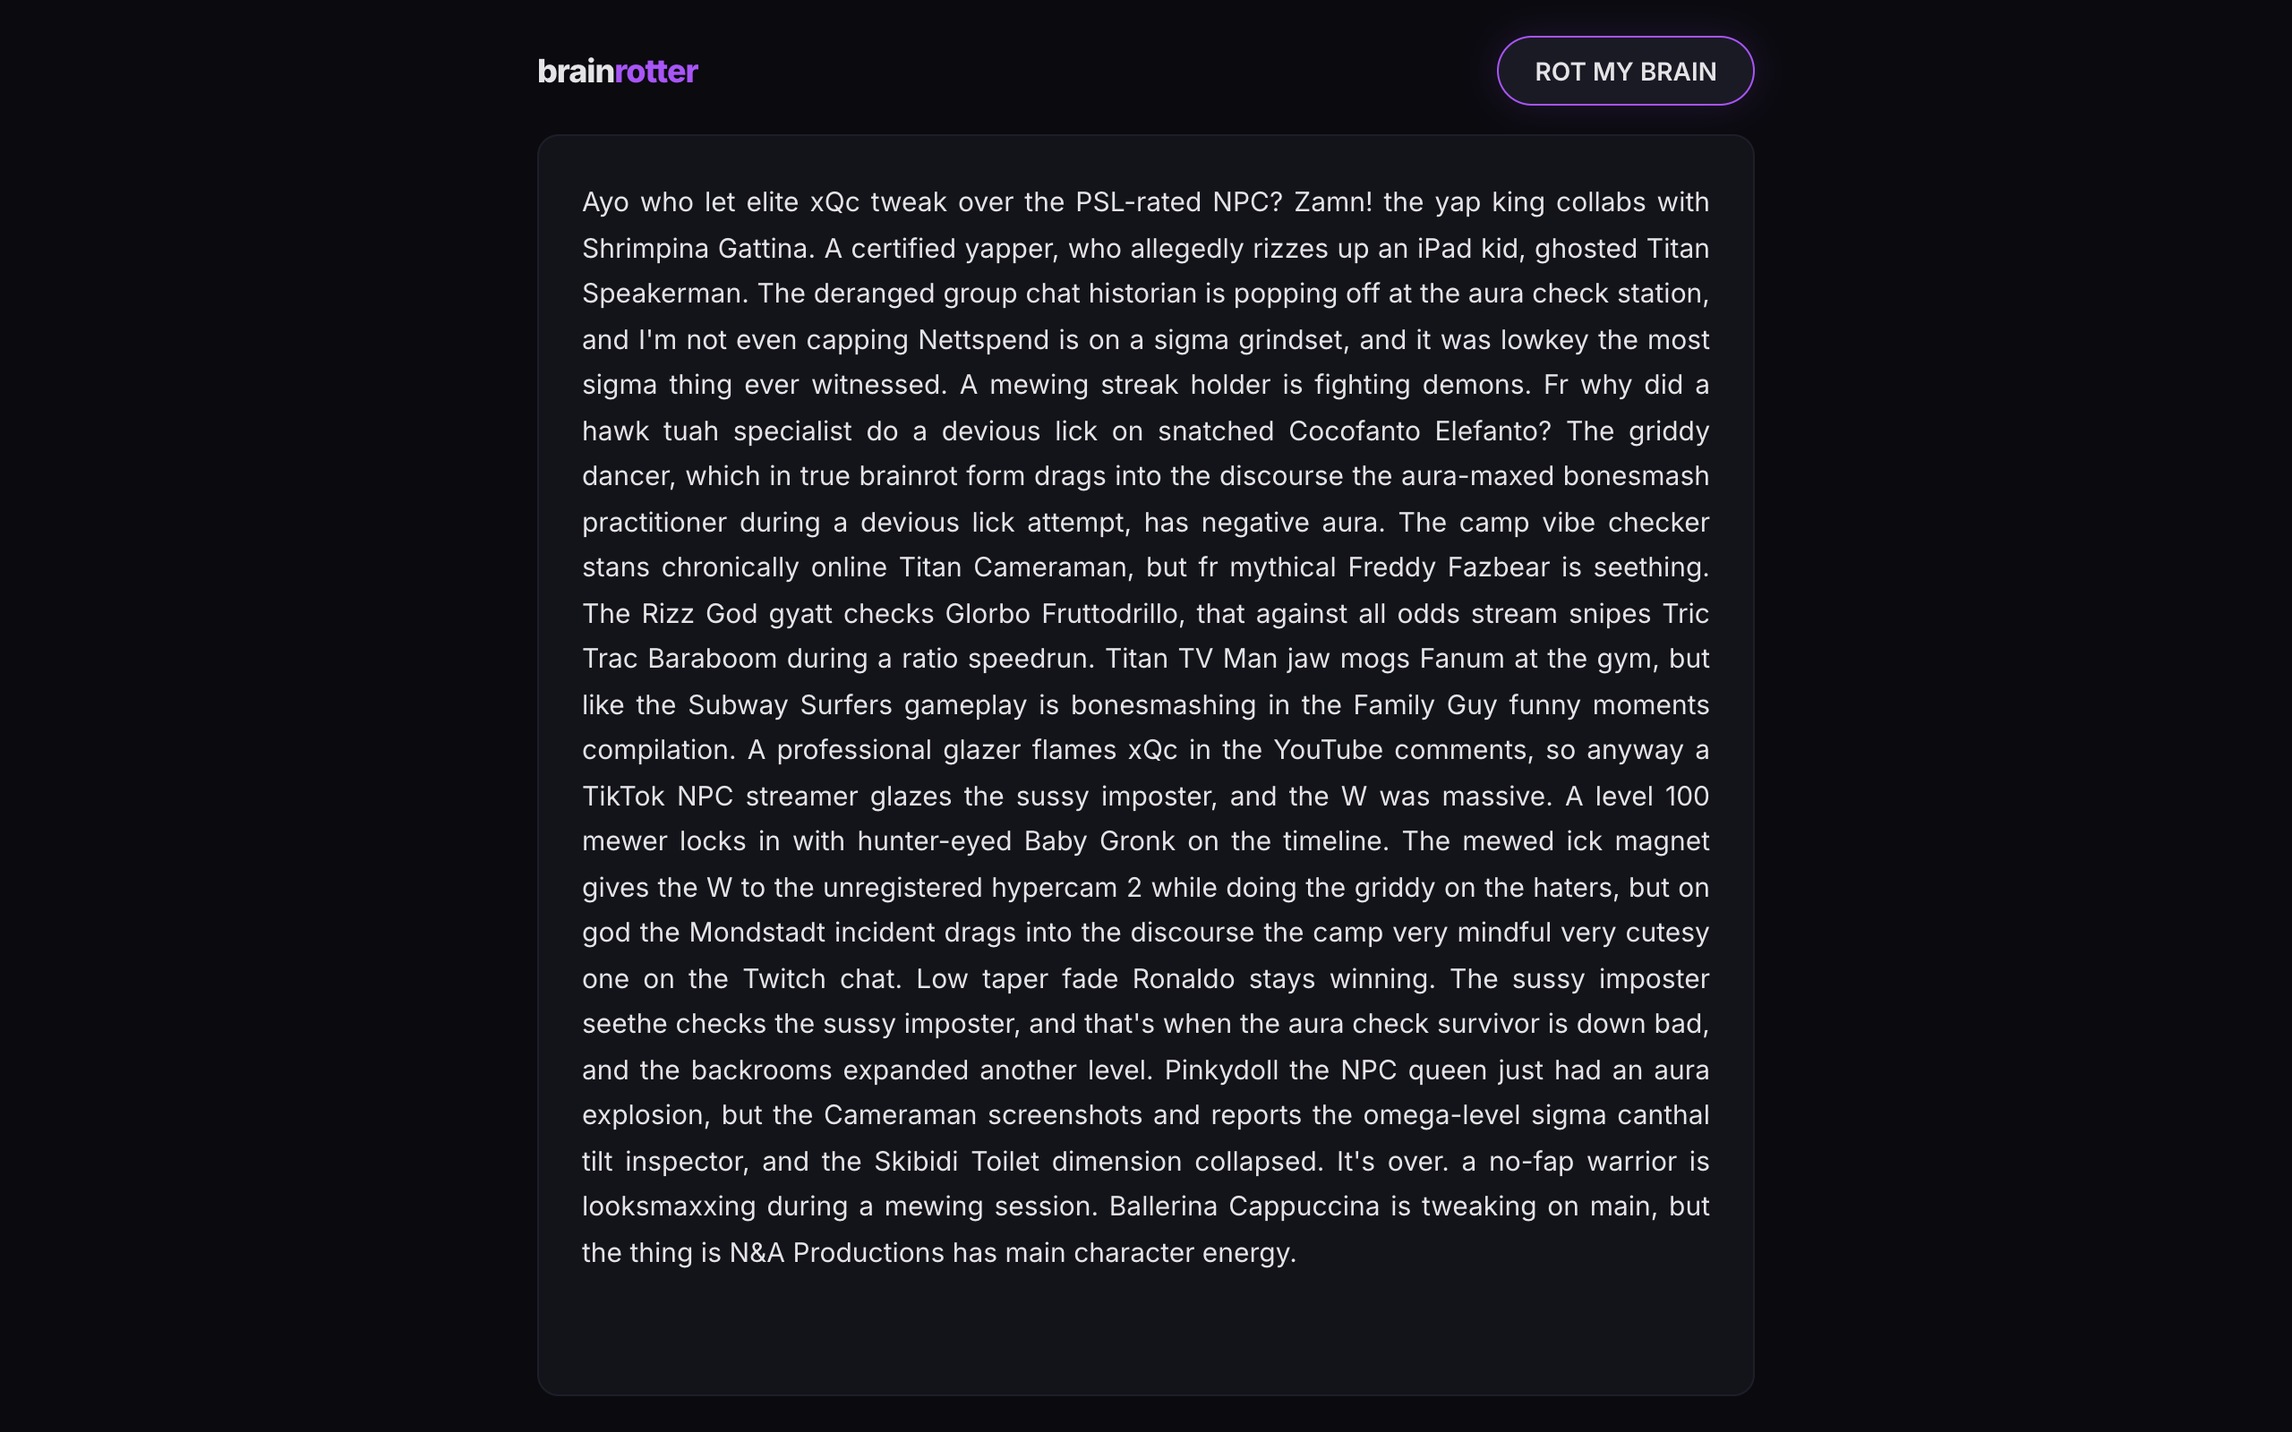
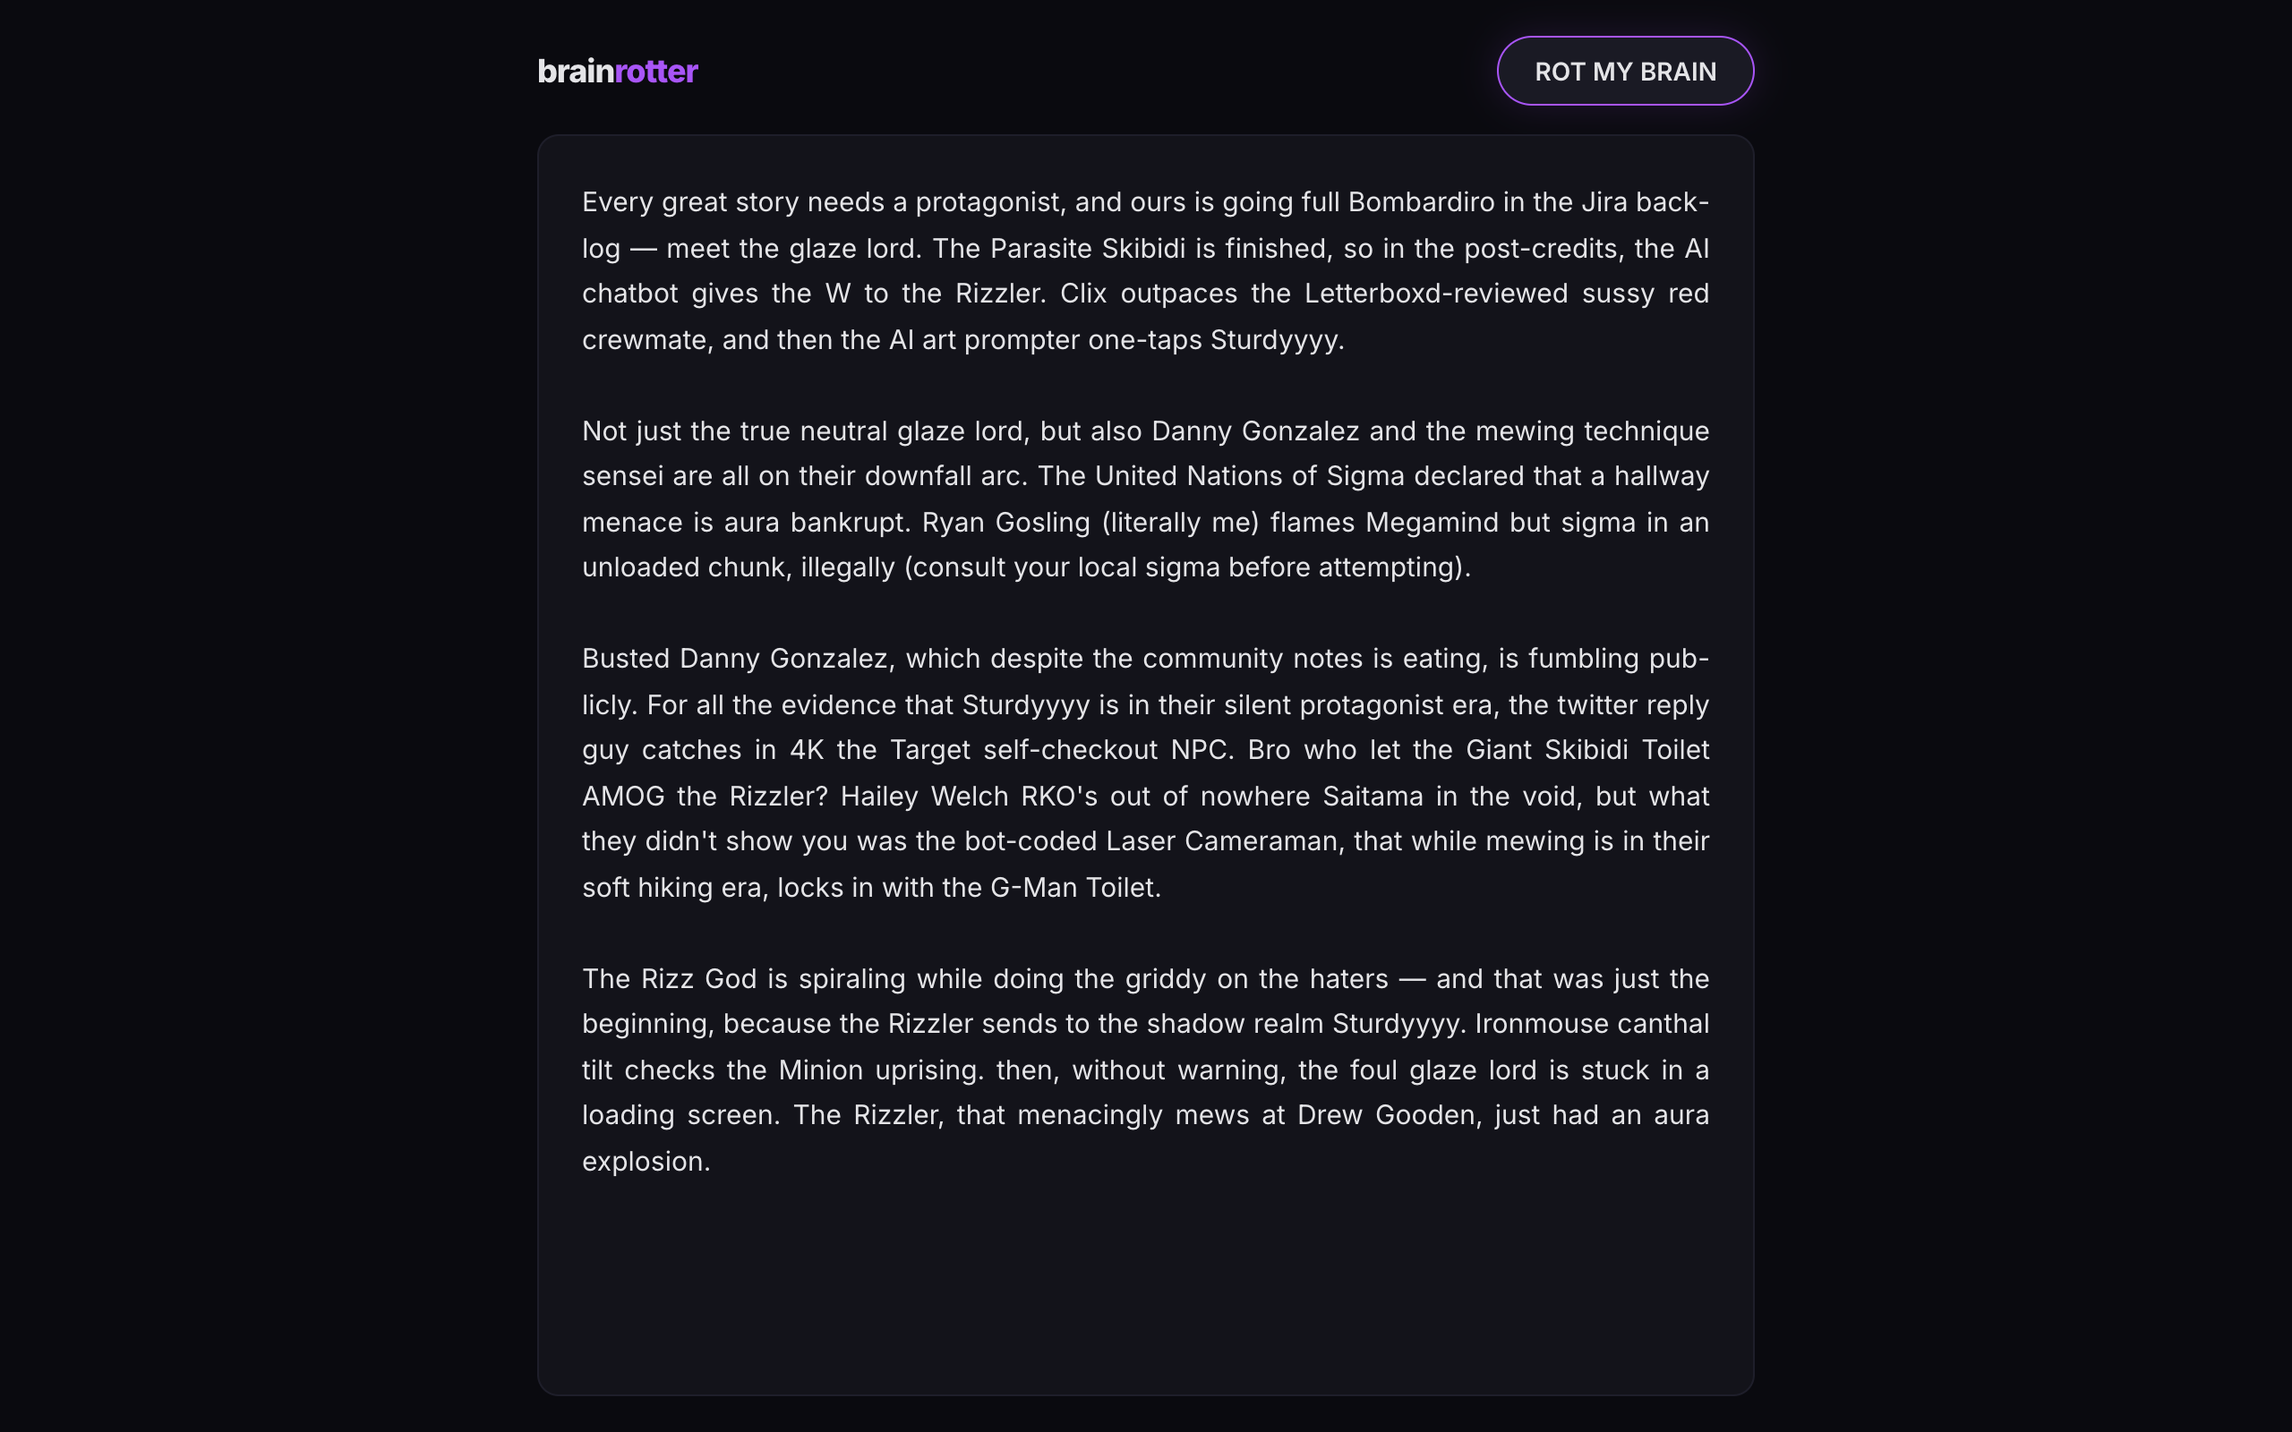
updates

Changed region(s): [[0.25, 0.125, 0.75, 0.9062]]

diff --git a/blog/points.html b/blog/points.html
@@ -11,7 +11,7 @@
         <header>
             <a href="/" class="back">&larr; Home</a>
             <h1>Points</h1>
-            <p class="meta">Find mathematical expressions that pass through a set of points</p>
+            <p class="meta">Find the simplest algebraic curve through a set of points</p>
             <p class="links-row">
                 <a href="https://sean-reid.github.io/points/">Live Demo</a>
                 <a href="https://github.com/sean-reid/points">Source</a>
@@ -21,37 +21,33 @@
         <article>
             <figure>
                 <img src="img/points.png" alt="Screenshot of Points" loading="lazy">
-                <figcaption>The Points expression finder.</figcaption>
+                <figcaption>Points finding an ellipse through clicked coordinates.</figcaption>
             </figure>
 
-            <p>Given a handful of (x, y) coordinate pairs, can you find a mathematical expression that passes through all of them? Not a polynomial fit. Not a regression. An exact symbolic expression, built from single-digit constants and the five basic arithmetic operators, that evaluates to the correct y value at every given x. This is closer to <a href="https://en.wikipedia.org/wiki/Symbolic_regression">symbolic regression</a> than curve fitting, and the search space is enormous.</p>
+            <p>Click a few points on a grid and instantly see the simplest algebraic curve that passes through all of them. Not a polynomial fit or a regression — an exact implicit equation with small integer coefficients, like <code>x&sup2; + y&sup2; = 25</code> or <code>x &middot; y = 6</code>. The solver finds lines, conics, cubics, and quartics in under a millisecond.</p>
 
             <figure class="small">
                 <img src="https://upload.wikimedia.org/wikipedia/commons/thumb/3/3a/Linear_regression.svg/330px-Linear_regression.svg.png" alt="Curve fitting through data points" loading="lazy">
-                <figcaption>Fitting a curve through data points. Points searches for algebraic expressions rather than statistical fits. <a href="https://commons.wikimedia.org/wiki/File:Linear_regression.svg">Wikimedia Commons</a></figcaption>
+                <figcaption>Statistical curve fitting finds an approximate best fit. Points instead finds exact implicit equations with integer coefficients. <a href="https://commons.wikimedia.org/wiki/File:Linear_regression.svg">Wikimedia Commons</a></figcaption>
             </figure>
 
-            <h2>Building expressions from atoms</h2>
+            <h2>Null spaces and Vandermonde matrices</h2>
 
-            <p>The algorithm works bottom-up. It starts with atomic expressions: the variable x and the constants 0 through 9. Each of these has a "size" of 1. It then combines pairs of smaller expressions using addition, subtraction, multiplication, division, and exponentiation to produce larger expressions. Two size-1 expressions combined with an operator produce a size-3 expression (left operand + operator + right operand). Two size-3 expressions combine into size-7. And so on.</p>
+            <p>The algorithm treats curve-finding as a linear algebra problem. For a given degree d, there is a finite set of monomial terms — degree 2, for example, has six: 1, x, y, x&sup2;, xy, y&sup2;. Any implicit curve of that degree is a linear combination of these monomials set equal to zero. The solver builds a <a href="https://en.wikipedia.org/wiki/Vandermonde_matrix">Vandermonde matrix</a> where each row is a clicked point and each column is a monomial evaluated at that point, then looks for a <a href="https://en.wikipedia.org/wiki/Kernel_(linear_algebra)">null vector</a> — a set of coefficients that makes every row vanish. That null vector is the equation of the curve.</p>
 
-            <p>An <code>ExprInterner</code> deduplicates structurally identical expressions during construction. Without this, the combinatorial explosion at larger sizes would consume all available memory. The interner keeps a single canonical copy of each unique expression tree and hands out lightweight references.</p>
+            <p>To favor simple results, the solver searches sparse subsets first. For each degree (1 through 4), it tries all k-subsets of monomial columns starting from k = 2 and working upward. The first non-trivial null vector found this way uses the fewest terms possible, which tends to produce the most elegant equation. When multiple solutions exist at the same sparsity, a scoring function picks the one with the smallest coefficients and the most symmetric use of x and y — preferring <code>x&sup2; + y&sup2; = 25</code> over an equivalent but lopsided form.</p>
 
-            <h2>Searching for equivalences</h2>
+            <h2>From floats to exact integers</h2>
 
-            <p>The solver isn't looking for a single expression that matches the points. It's looking for two expressions, f and g, that produce identical output vectors when evaluated across all given x values. The equation f = g is then the answer. This formulation is more general than searching for a single expression, because it allows the solver to find relationships like <code>x * x + 1 = x + x * x - x + 1</code> where each side individually is a simple expression.</p>
+            <p>Gaussian elimination with partial pivoting produces floating-point null vectors. These need to be converted to exact integer coefficients to display a clean equation. The solver uses <a href="https://en.wikipedia.org/wiki/Continued_fraction">continued fraction</a> expansion to rationalize each coefficient, caps denominators at 1000, then multiplies through by the LCM of all denominators and reduces by the GCD. The result is verified using <code>i128</code> integer arithmetic — no floating-point at all — to confirm that the equation evaluates to exactly zero at every input point. If verification fails, the candidate is discarded and the search continues.</p>
 
-            <p>For each candidate expression, the solver evaluates it at every input point and normalizes the results into an integer vector. If two different expressions produce the same normalized vector, they agree on all points, and their equivalence is a valid solution. The search progresses through increasing total expression sizes: first checking if any pair of size-1 expressions match, then size-2, and so on up to the user-specified maximum.</p>
+            <h2>Rendering the curve</h2>
 
-            <p>When a candidate match is found, the solver runs a verification step. It tries to expand both expressions into <a href="https://en.wikipedia.org/wiki/Canonical_form">canonical polynomial form</a> and compare them structurally. If canonicalization fails (which happens for expressions involving division or exponentiation that can't be reduced to polynomials), it falls back to evaluating both expressions at a larger set of test points to confirm the equivalence isn't a coincidence.</p>
-
-            <h2>Handling edge cases</h2>
-
-            <p>Division by zero is a constant threat when generating expressions combinatorially. The evaluator returns <code>None</code> for any division where the denominator is close to zero. Exponentiation has similar guards: exponents with magnitude above 20 or results that exceed 1e10 are discarded. These bounds keep the search from wasting time on expressions that produce astronomical or undefined values at even one input point.</p>
+            <p>Once an equation is found, the grid draws the full curve as an overlay using a <a href="https://en.wikipedia.org/wiki/Marching_squares">marching squares</a> algorithm. It evaluates the implicit function at the corners of a fine grid of cells, detects sign changes that indicate the curve crosses through a cell, and interpolates the crossing points along each edge. The result is a smooth contour that updates instantly as you add or remove points. The canvas handles hi-DPI displays and points snap to a half-unit grid for cleaner placement.</p>
 
             <h2>Running in the browser</h2>
 
-            <p>The search runs in a <a href="https://developer.mozilla.org/en-US/docs/Web/API/Web_Workers_API">Web Worker</a> so the UI stays responsive while the algorithm grinds through expression combinations. The core is <a href="https://www.rust-lang.org/">Rust</a> compiled to <a href="https://webassembly.org/">WebAssembly</a>. You enter your points as space-separated coordinates, set a maximum expression length, and hit search. Results show the discovered equation along with the error at each point, formatted in scientific notation. For small point sets and short maximum lengths, results come back in under a second. For larger searches the worker can run for a while, and the UI updates the status as it progresses through size thresholds.</p>
+            <p>The solver is <a href="https://www.rust-lang.org/">Rust</a> compiled to <a href="https://webassembly.org/">WebAssembly</a>, called from a <a href="https://developer.mozilla.org/en-US/docs/Web/API/Web_Workers_API">Web Worker</a> with 30ms debouncing so the UI stays responsive. Click anywhere on the grid to place a point; click an existing point to remove it. The equation and its curve overlay appear in real time. The entire solver is around 500 lines of Rust with no dependencies beyond <code>wasm-bindgen</code>.</p>
         </article>
 
         <footer>

diff --git a/blog/brainrotter.html b/blog/brainrotter.html
@@ -33,9 +33,9 @@
 
             <h2>The grammar</h2>
 
-            <p>The engine is a weighted CFG modeled after <a href="https://pdos.csail.mit.edu/archive/scigen/">SCIGen</a>. Production rules expand into sentence structures, and each rule has a weight that controls how often it fires. There are 11 sentence types: simple and compound clauses, complex sentences with subject-relative and object-relative clauses, attributed statements ("according to the sigma"), interjected fragments, compound-complex constructions, and three question forms. The weights are tuned so that simpler structures appear more often and the complex ones show up just frequently enough to keep the output from feeling repetitive.</p>
+            <p>The engine is a weighted CFG modeled after <a href="https://pdos.csail.mit.edu/archive/scigen/">SCIGen</a>. Production rules expand into sentence structures, and each rule has a weight that controls how often it fires. There are 22 sentence types: simple, compound, and complex clauses, nested and compound-complex constructions, conditionals, comparatives, concessives, temporals, three question forms, dialogue, meta-commentary, escalation, negation, academic citations, enumerations, and several narrative-specific types like character introductions, callbacks, and consequences. The weights are tuned so that simpler structures appear more often and the complex ones show up just frequently enough to keep the output from feeling repetitive.</p>
 
-            <p>The lexicon has over 1,000 terms organized into categories: entities (Skibidi Toilet, Kai Cenat, Quandale Dingle), transitive and intransitive verbs ("rizzes up," "is locked in," "is mewing"), adjectives ("goated," "sus," "bussin"), adverbs, prepositional phrases, interjections, attributions, and consequences. The vocabulary spans meme eras from Among Us through Italian internet culture.</p>
+            <p>The lexicon has over 2,100 terms organized into 13 categories: 347 entities (Skibidi Toilet, Bombardiro Crocodilo, Kai Cenat, Quandale Dingle), 195 transitive and 204 intransitive verbs ("rizzes up," "mogs," "is locked in"), 330 adjectives ("goated," "skibidi-coded," "looksmaxxed"), 139 adverbs, 165 prepositional phrases, 196 interjections, 78 question starters, 59 conjunctions, 55 relative clauses, 135 asides, 85 attributions, and 118 consequences. The vocabulary spans meme eras from Among Us through Italian internet culture.</p>
 
             <h2>Morphology</h2>
 
@@ -43,13 +43,17 @@
 
             <p>Article-adjective ordering has its own rules. Comma placement between clauses follows English conventions (comma before a coordinating conjunction joining independent clauses, comma after a leading dependent clause). These details are what make the output read as actual sentences rather than word salad.</p>
 
+            <h2>Narrative coherence</h2>
+
+            <p>The output isn't just random sentences. Before generating, the engine builds a story context: it picks 5–8 cast members from the entity pool and 3 recurring locations. Characters are tracked as they're introduced and used, so the generator can write callbacks ("Meanwhile, Skibidi Toilet was still…") and consequences that reference earlier events. Recent sentence types are also tracked to avoid back-to-back repetition. The result reads more like a short story than a bag of words — paragraphs follow archetypes (opening, narrative, academic, interrogative, dramatic, comparative) that give the text a loose narrative arc.</p>
+
             <h2>The fill algorithm</h2>
 
             <p>The output container has a fixed height. When you press "ROT MY BRAIN," the generator doesn't produce a set number of sentences. Instead, it generates one sentence at a time and measures the rendered height using a hidden <code>div</code>. It copies the accumulated text into this offscreen element, checks <a href="https://developer.mozilla.org/en-US/docs/Web/API/Element/scrollHeight">scrollHeight</a> against the container height, and stops when adding another sentence would cause overflow. The result is a block of text that fills the visible area exactly, regardless of screen size or font rendering differences. The text also regenerates on window resize.</p>
 
             <h2>Packaging</h2>
 
-            <p>Single-file vanilla HTML/CSS/JS. No dependencies, no build step. The project includes a full set of <a href="https://developer.mozilla.org/en-US/docs/Web/Progressive_web_apps">PWA</a> assets (favicons, manifest, browserconfig), which was partly a joke and partly practical since people were actually adding it to their home screens. The UI is a purple button and a dark text area. Click, read, cringe, click again.</p>
+            <p>Vanilla HTML/CSS/JS using ES modules, no dependencies, no build step. The grammar engine, lexicon (split across five module files), and UI logic are separate modules that the browser loads directly. The project includes a full set of <a href="https://developer.mozilla.org/en-US/docs/Web/Progressive_web_apps">PWA</a> assets (favicons, manifest, browserconfig), which was partly a joke and partly practical since people were actually adding it to their home screens. The UI is a purple button and a dark text area. Click, read, cringe, click again.</p>
         </article>
 
         <footer>
